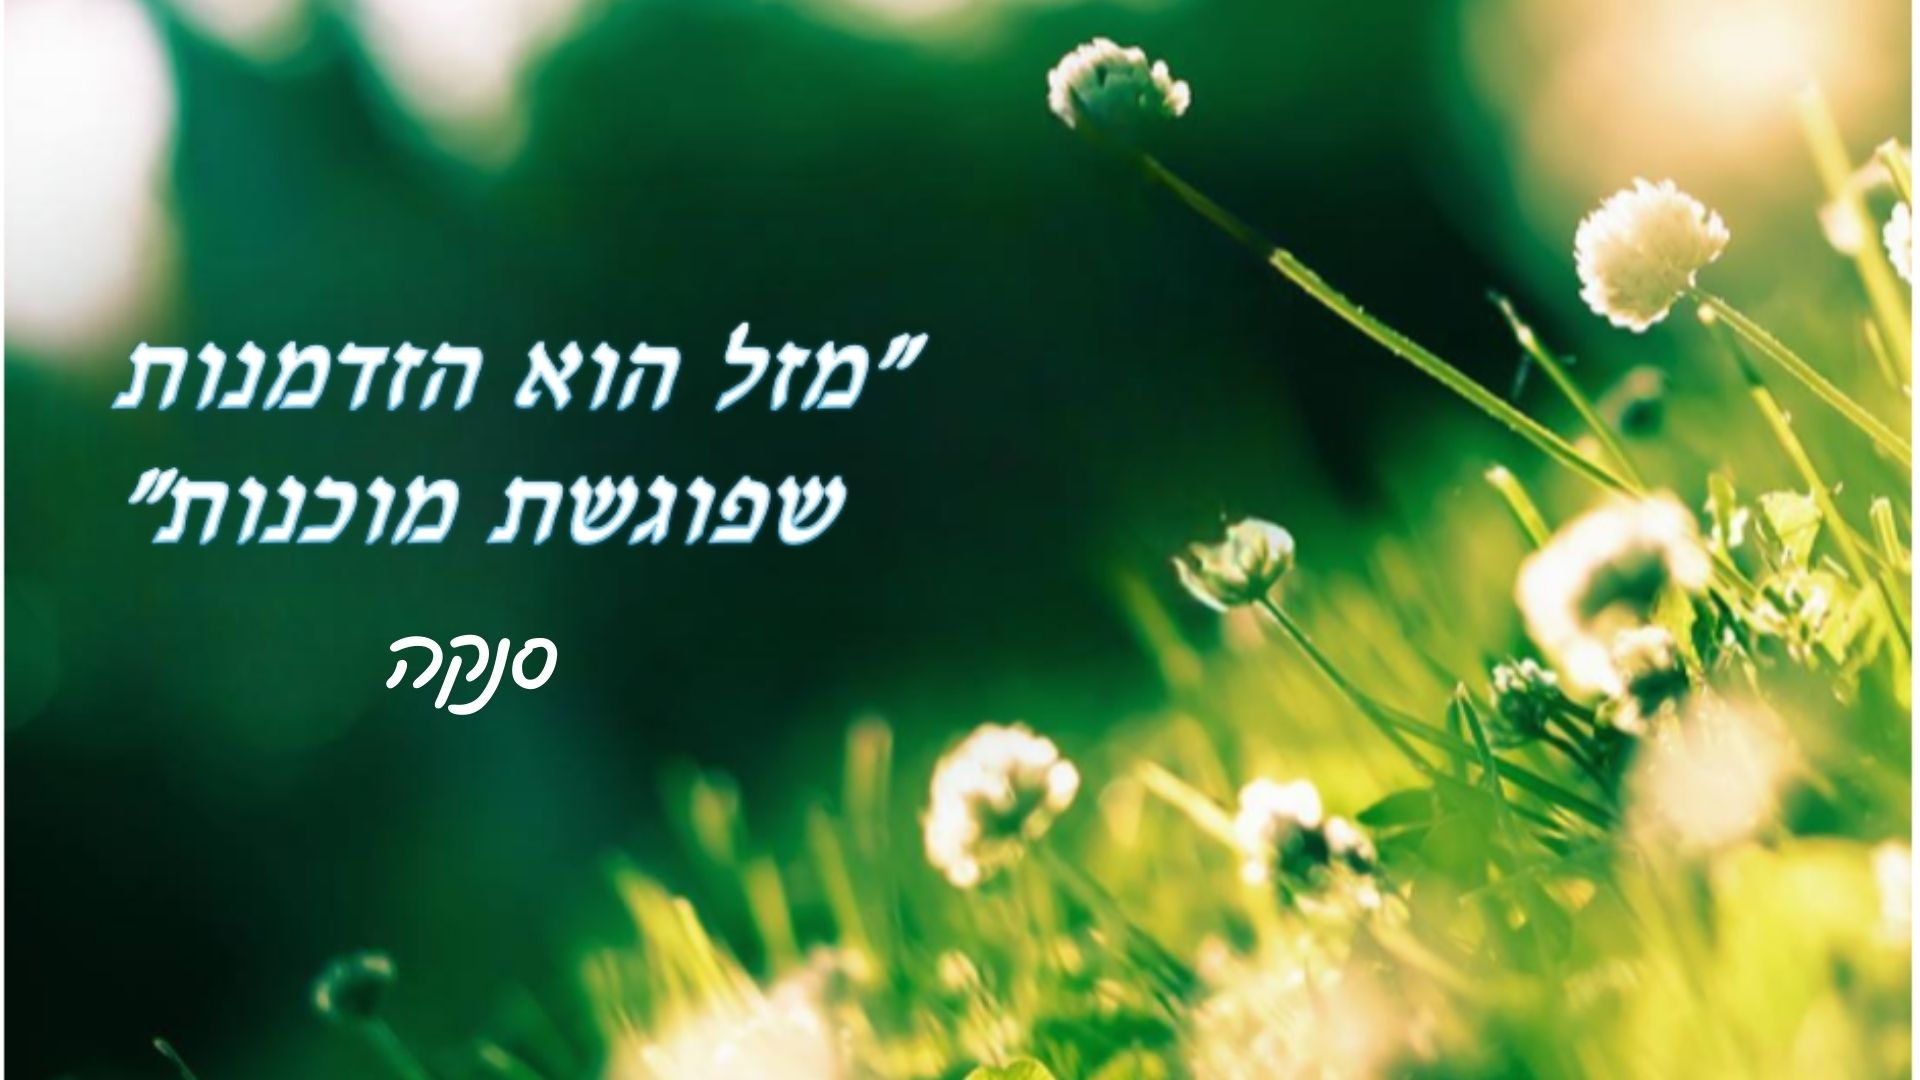
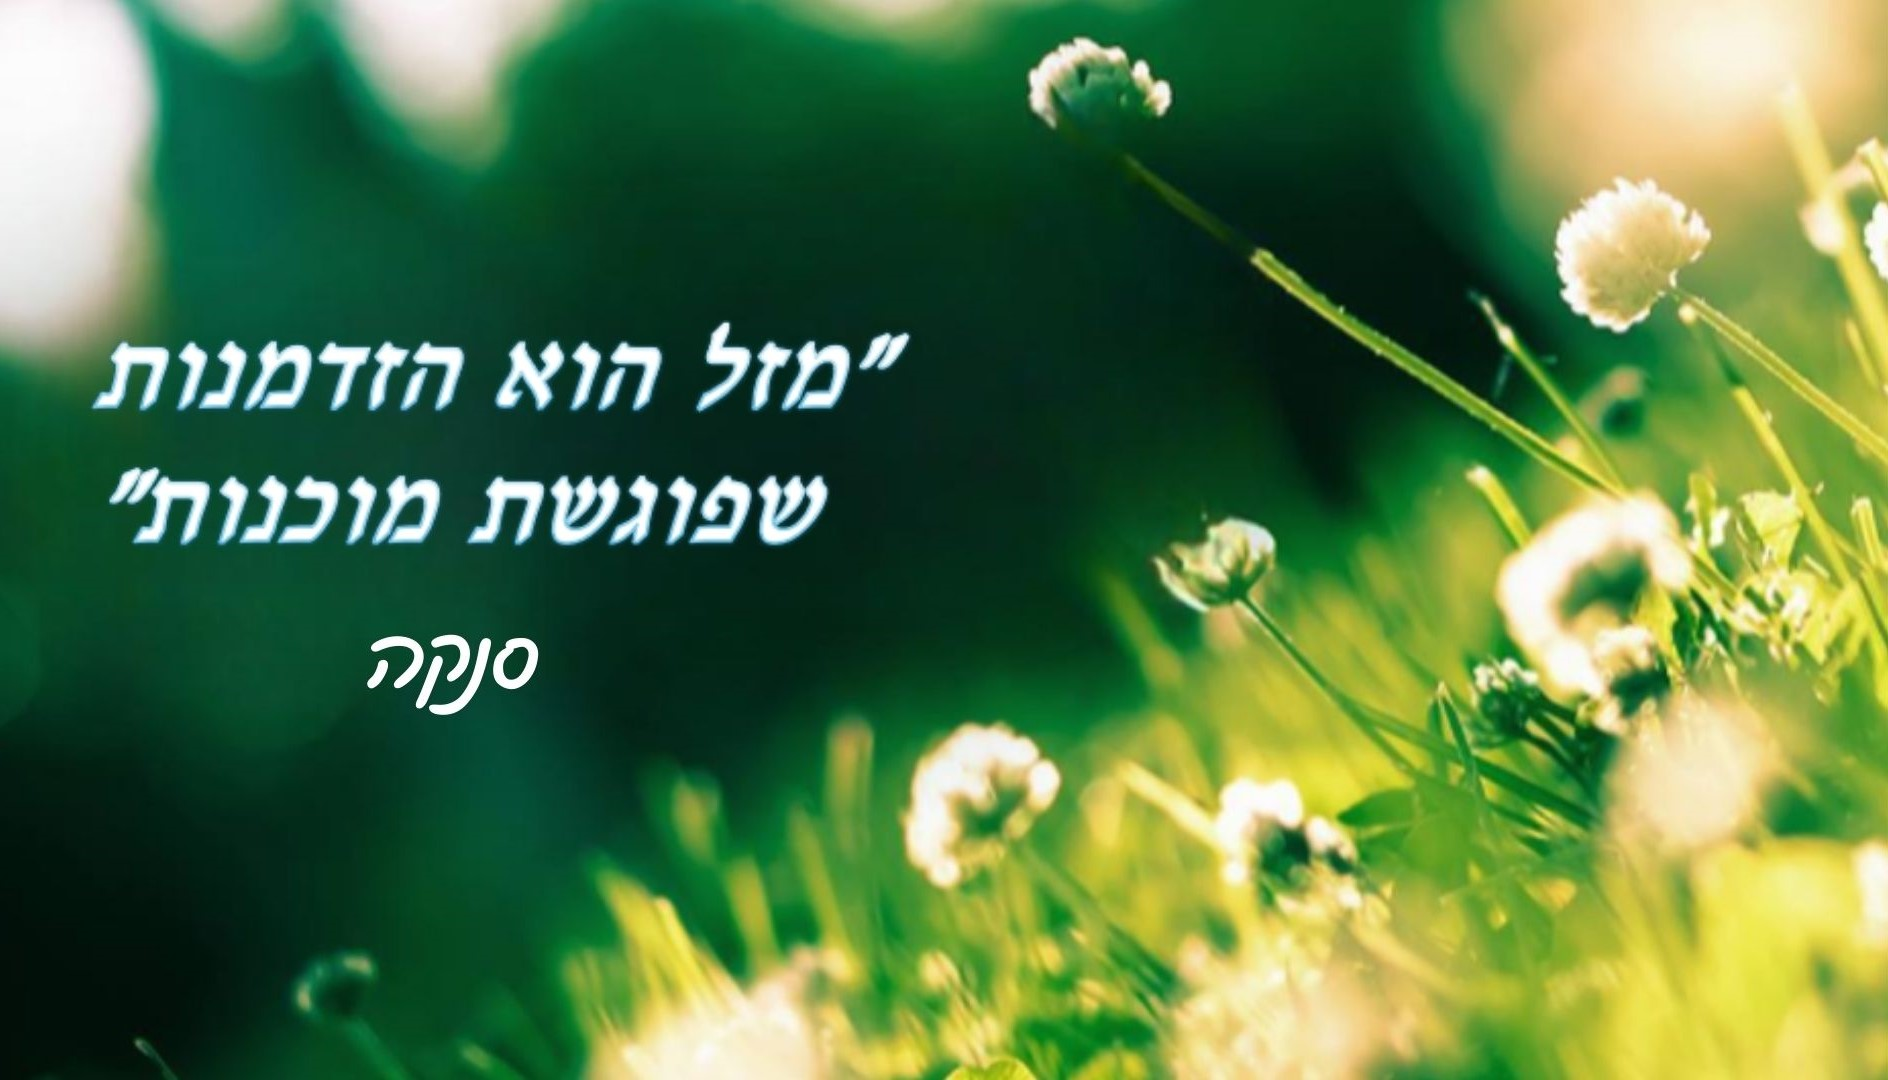
edit email

diff --git a/index.html b/index.html
@@ -499,7 +499,7 @@ ul.therapy-list li.show {
 <script src="https://cdn.userway.org/widget.js" data-account="VZA8XqqwST"></script>
 
 <div style="text-align:center;">
-	<img  src="images/sanka.png" class="hidden" alt="אסי גרינברג משפט חיזוק" width="100%" height="100%" style="border-radius:10%" ;"></img>
+	<img  src="images/sanka.jpg" class="hidden" alt="אסי גרינברג משפט חיזוק" width="100%" height="100%" style="border-radius:10%" ;"></img>
 <section class="hidden" style="display: flex; flex-direction: column; align-items: center; justify-content: center; text-align: center; width: 100%;">
 <p style="font-size: 46px; margin-bottom: 10px; color: darkgreen; text-align: center; width: 100%; padding-bottom: 10px; text-decoration: underline;">מרגישים תקועים?</p>
     <ul class="checklist" style="padding: 0; margin: 0;">
